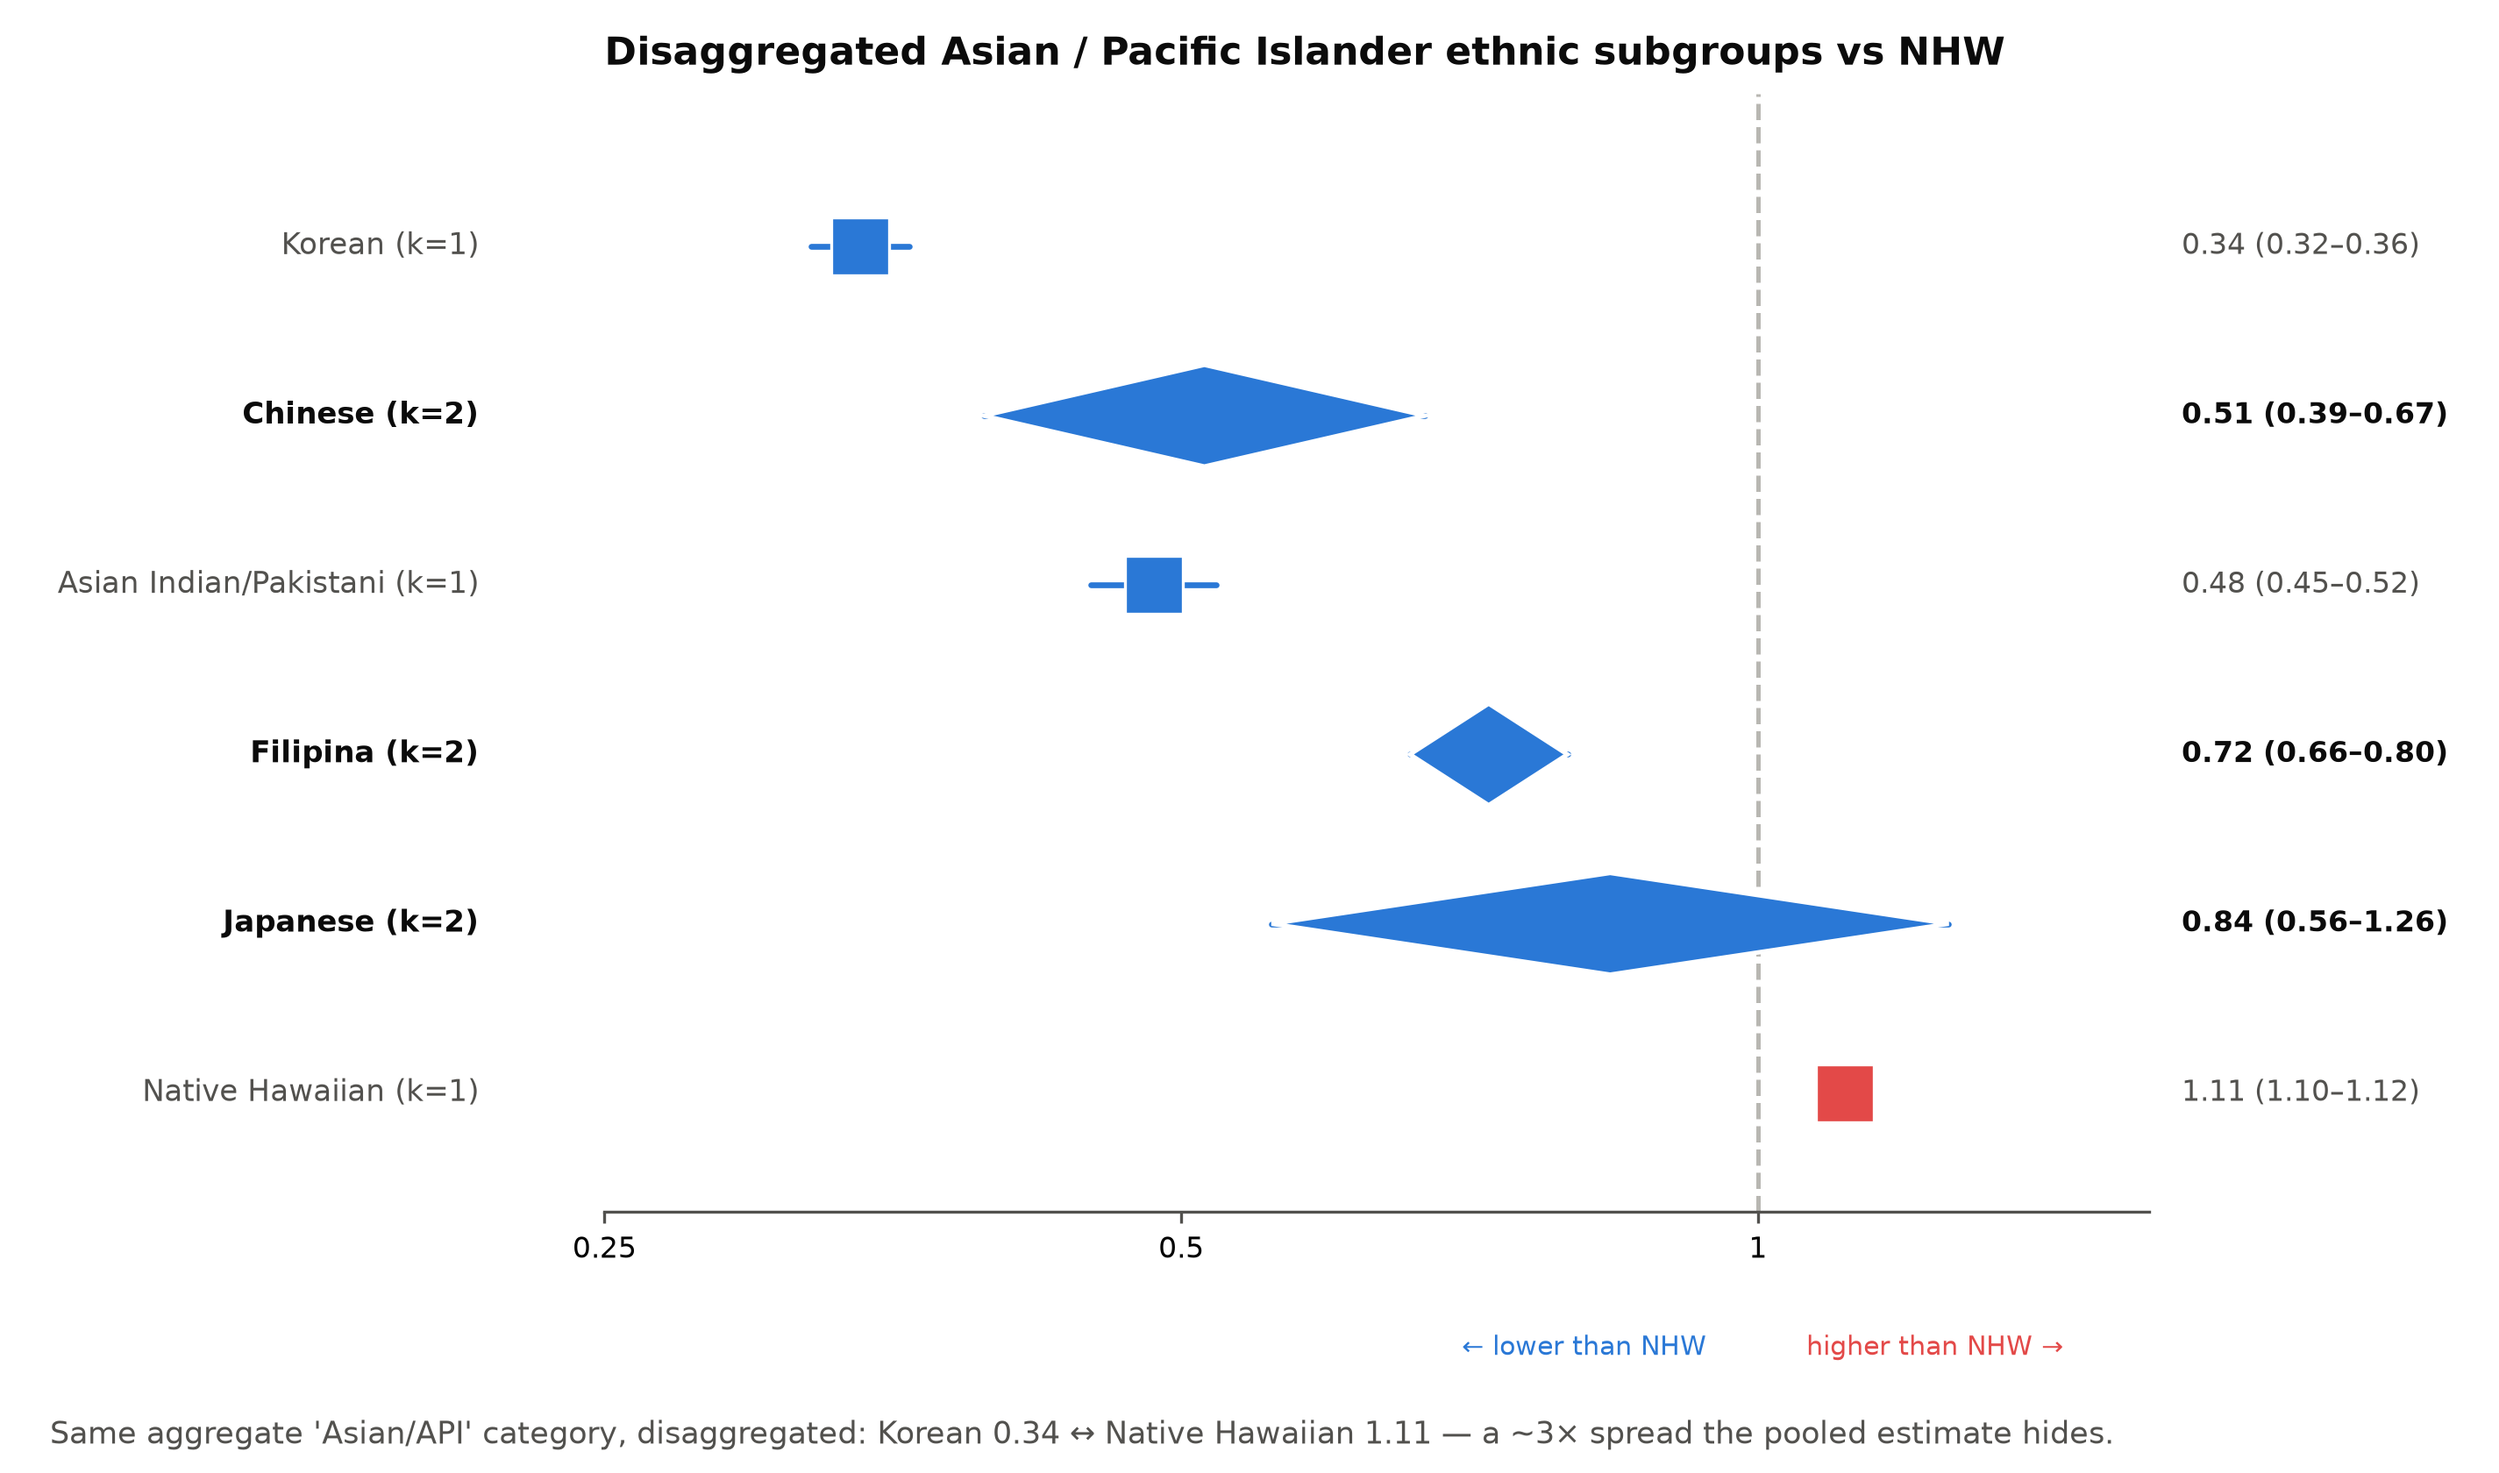
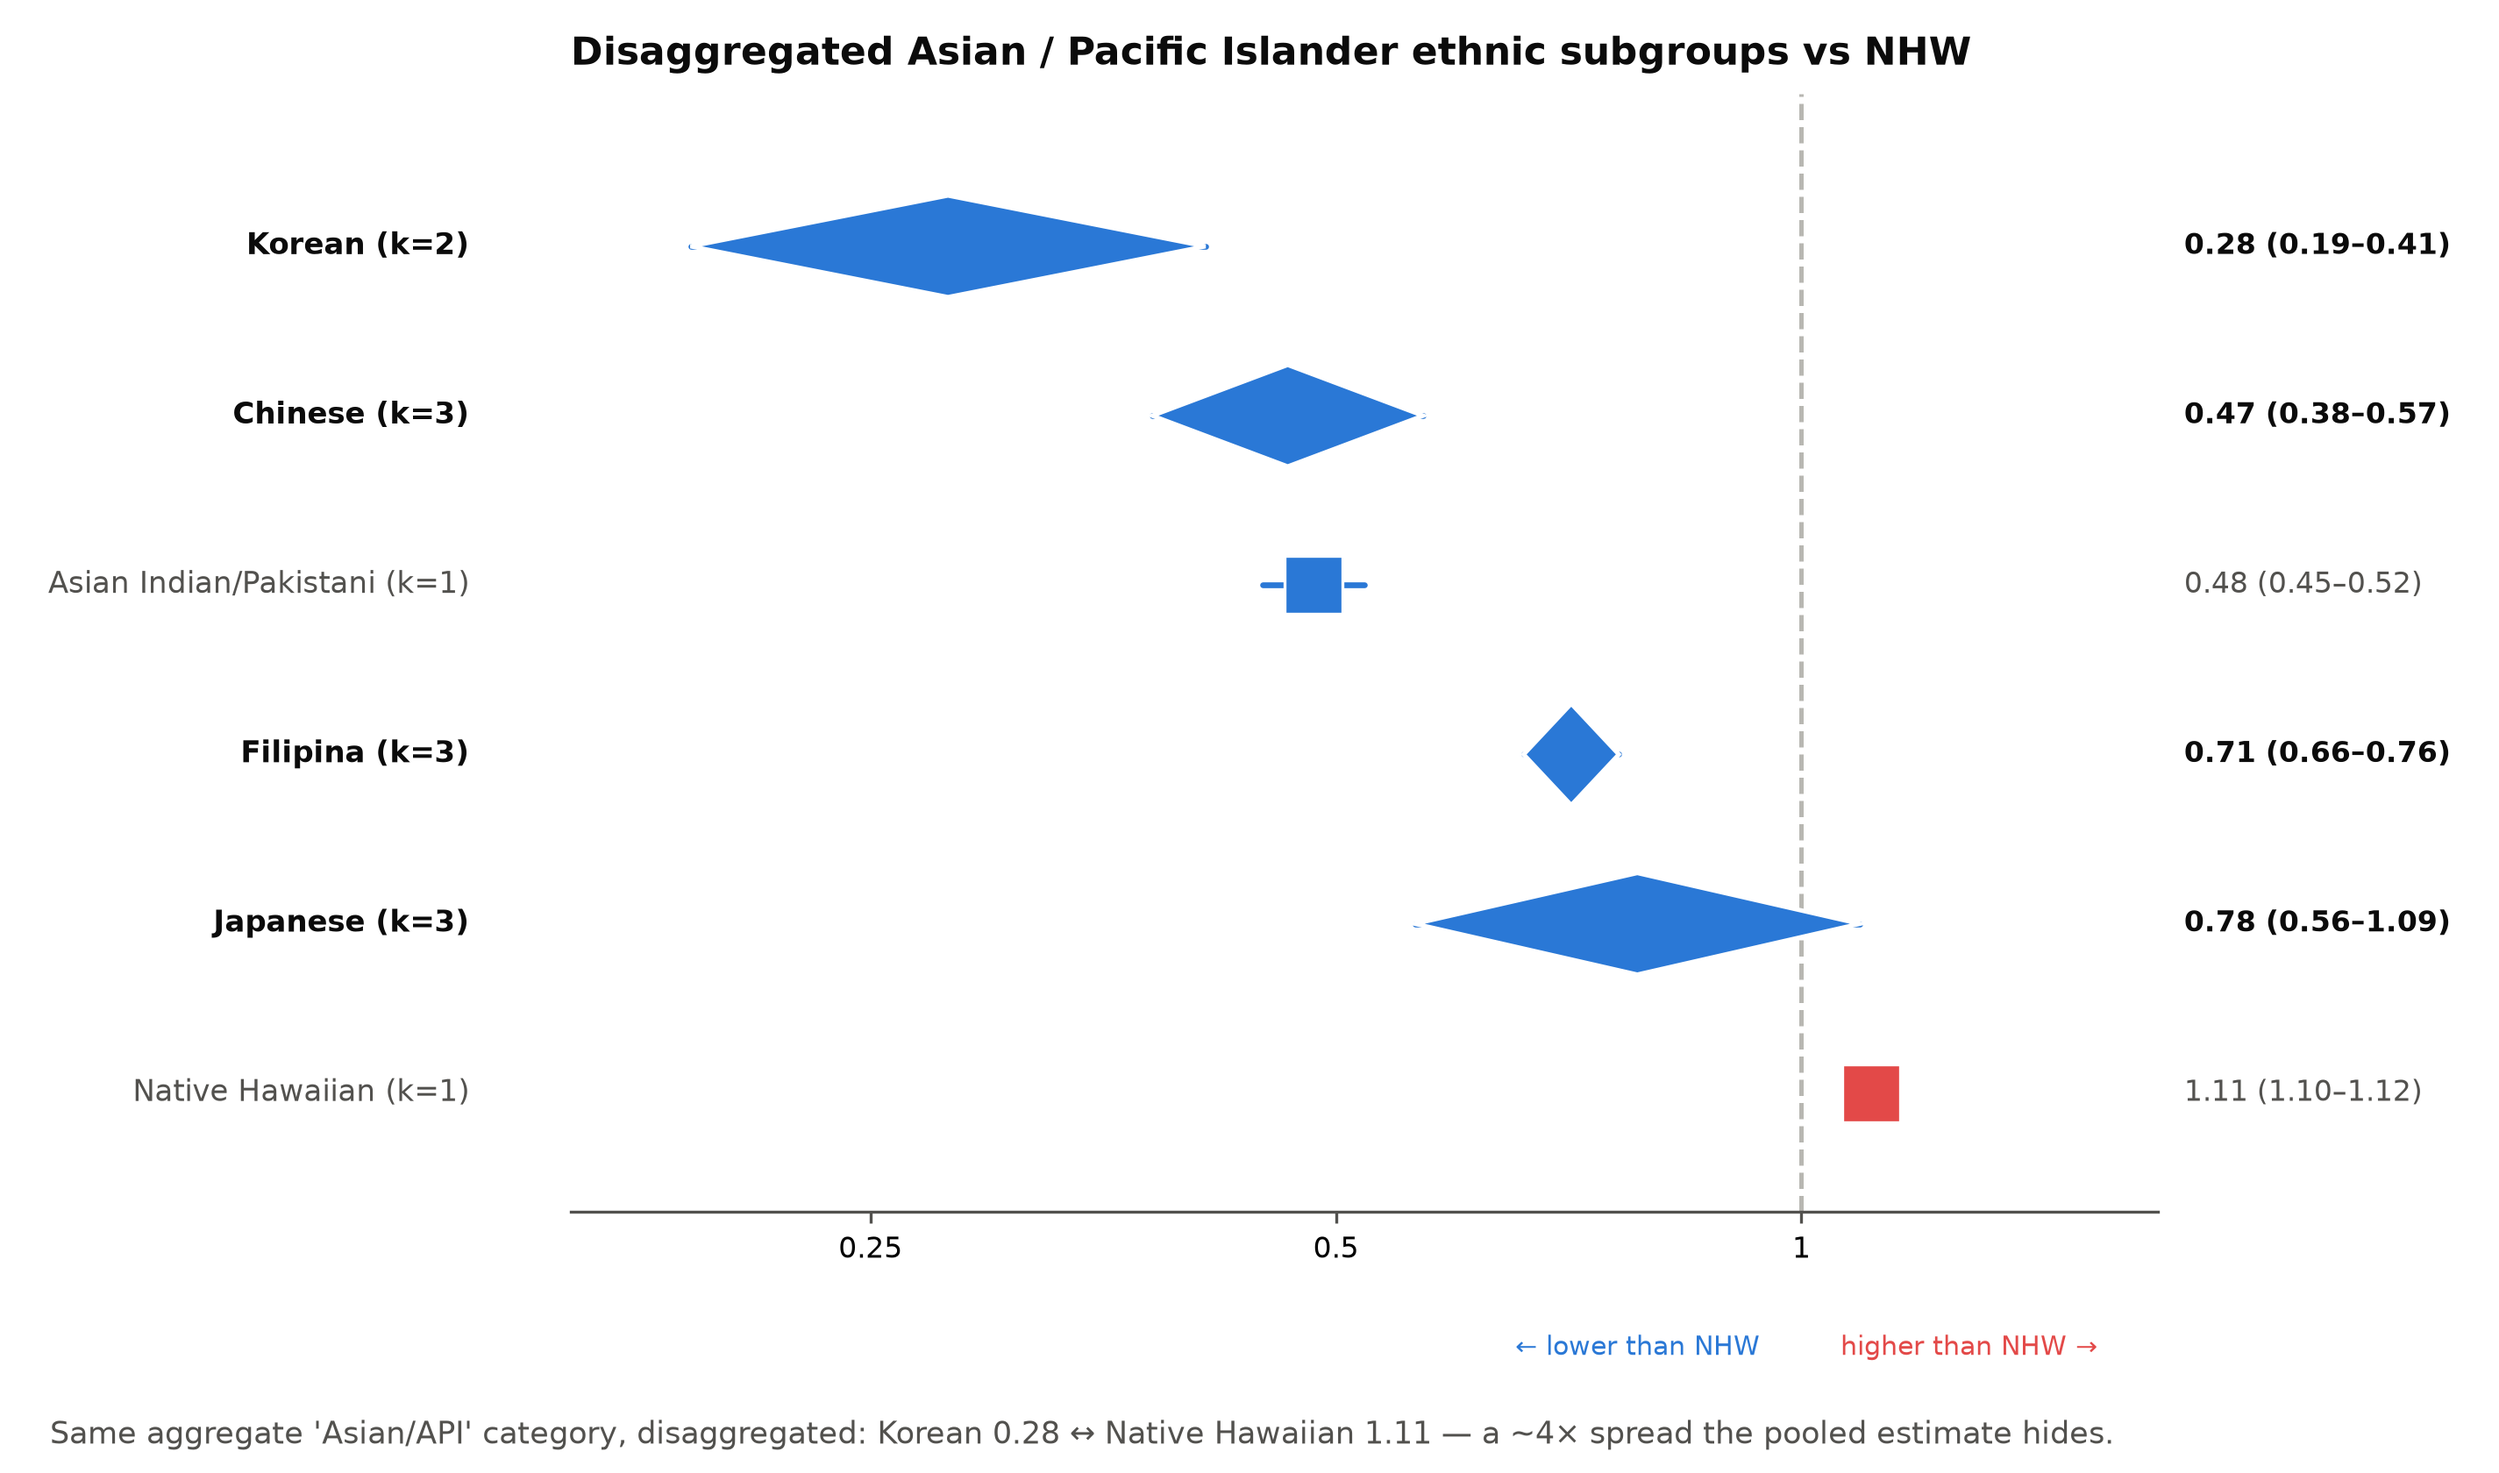
Recover 12115511 (Deapen 2002) from scanned PDF; add Asian subgroup rows
The included study 12115511 had a corrupted .txt (wrong article) AND a
scanned image-only PDF. Rendered the scan (pypdfium2) and read Table I:
annual age-adjusted invasive BC rates + case counts by ethnicity, LA County
1988-1997. Added Chinese/Japanese/Filipina/Korean subgroup rows (10-yr mean
rate vs NHW 124.3; Poisson SE from summed case counts via new helper
se_logrr_from_counts). Korean now k=2; Chinese/Filipina/Japanese k=3.
Main-race rows omitted (LA County overlaps Liu 21351091 -> registry-cluster
sensitivity). Regenerated fig2 (Korean pooled 0.28, ~4x subgroup spread).
STUDIES 83 -> 87. CROSS_CHECK items 92-95.

Claude-Session: https://claude.ai/code/session_01CuLT4FKRBtsU22Vwfjj2qn

diff --git a/meta_agents/run_meta_analysis_breast.py b/meta_agents/run_meta_analysis_breast.py
@@ -84,6 +84,11 @@ def se_from_ci(irr, ci_low, ci_high):
     return (math.log(ci_high) - math.log(ci_low)) / (2 * 1.96)
 
 
+def se_logrr_from_counts(cases_minority, cases_nhw):
+    """SE of log(rate ratio) from case counts (Poisson): sqrt(1/c_m + 1/c_n)."""
+    return math.sqrt(1 / cases_minority + 1 / cases_nhw)
+
+
 def irr_from_rates(r_minority, r_nhw):
     """Convenience: log(IRR) from two rates."""
     return math.log(r_minority / r_nhw)
@@ -322,6 +327,26 @@ STUDIES: List[Study] = [
           math.log(0.68), se_from_ci(0.68, 0.65, 0.70), notes="adj RR vs NHW"),
     Study("Liu2012_21351091", 2012, "LA County SEER", "invasive_incidence", "Korean",
           math.log(0.34), se_from_ci(0.34, 0.32, 0.36), notes="adj RR vs NHW"),
+
+    # ── 12115511 — Deapen et al., Int J Cancer 2002 "Rapidly rising breast
+    #    cancer incidence rates among Asian-American women" (LA County CSP/CCR,
+    #    Table I, age-adj 1970 US std, 1988-1997). Ethnic-subgroup rows only:
+    #    10-year mean age-adj rate vs NHW mean (124.3); SE from summed Poisson
+    #    case counts sqrt(1/C_e + 1/C_w). NHW/Black/Hispanic/API NOT added (LA
+    #    County → overlaps Liu 21351091; addressed in registry-cluster sensitivity).
+    #    Scanned PDF read via image render (txt was corrupted). Adds Korean k=2.
+    Study("Deapen2002_12115511", 2002, "LA County CSP", "invasive_incidence", "Chinese",
+          irr_from_rates(47.25, 124.31), se_logrr_from_counts(683, 31897),
+          minority_rate=47.25, nhw_rate=124.31, notes="LA County 1988-97 mean; overlaps Liu (LA)"),
+    Study("Deapen2002_12115511", 2002, "LA County CSP", "invasive_incidence", "Japanese",
+          irr_from_rates(85.04, 124.31), se_logrr_from_counts(758, 31897),
+          minority_rate=85.04, nhw_rate=124.31, notes="LA County 1988-97 mean; overlaps Liu (LA)"),
+    Study("Deapen2002_12115511", 2002, "LA County CSP", "invasive_incidence", "Filipina",
+          irr_from_rates(84.37, 124.31), se_logrr_from_counts(1177, 31897),
+          minority_rate=84.37, nhw_rate=124.31, notes="LA County 1988-97 mean; overlaps Liu (LA)"),
+    Study("Deapen2002_12115511", 2002, "LA County CSP", "invasive_incidence", "Korean",
+          irr_from_rates(28.58, 124.31), se_logrr_from_counts(271, 31897),
+          minority_rate=28.58, nhw_rate=124.31, notes="LA County 1988-97 mean; overlaps Liu (LA)"),
 
     # ── 36504334 — Hicks/Liu et al., Cancer Causes Control 2023 "Characterizing
     #    breast cancer incidence and trends among AANHPI in Hawai'i" (SEER Hawaii,

diff --git a/meta_agents/make_figures.py b/meta_agents/make_figures.py
@@ -185,10 +185,10 @@ def fig2():
     fig, ax = plt.subplots(figsize=(9.5, 5.6))
     fig.patch.set_facecolor(SURFACE); ax.set_facecolor(SURFACE)
     forest_panel(ax, rows, "Disaggregated Asian / Pacific Islander ethnic subgroups vs NHW",
-                 xlim=(0.25, 1.6))
+                 xlim=(0.16, 1.7))
     fig.text(0.02, 0.02,
-             "Same aggregate 'Asian/API' category, disaggregated: Korean 0.34 ↔ "
-             "Native Hawaiian 1.11 — a ~3× spread the pooled estimate hides.",
+             "Same aggregate 'Asian/API' category, disaggregated: Korean 0.28 ↔ "
+             "Native Hawaiian 1.11 — a ~4× spread the pooled estimate hides.",
              fontsize=8.5, color=INK2, ha="left")
     fig.tight_layout(rect=[0, 0.05, 1, 1])
     fig.savefig("figures/fig2_subgroups_forest.png", dpi=300, facecolor=SURFACE)

diff --git a/meta_agents/EXTRACTION_LOG.md b/meta_agents/EXTRACTION_LOG.md
@@ -274,3 +274,25 @@ Confirmed the pattern, with one important nuance:
 - General rule going forward: **corrupted or poorly-linearized .txt lose table structure**
   (that caused the earlier false exclusions); **PMC-XML-derived .txt keep tables inline**
   and are usable. When in doubt, prefer the PDF via pdfplumber. STUDIES 65 → 67.
+
+---
+
+## 12115511 (Deapen 2002) recovered from scanned PDF — 2026-07-17
+
+The included study 12115511 ("Rapidly rising breast cancer incidence rates among
+Asian-American women", Deapen, Int J Cancer 2002) had a CORRUPTED .txt (a different
+article — a lifestyle/nativity survivorship paper) AND a scanned (image-only) PDF that
+pdfplumber could not extract. Rendered the scan to PNG (pypdfium2 scale=3) and read
+Table I directly. It contains annual age-adjusted invasive BC rates + case counts by
+ethnicity for LA County 1988–1997 — a clean quantitative source after all.
+
+Added Asian subgroup rows (Chinese/Japanese/Filipina/Korean) using 10-year mean rate
+vs NHW mean (124.3) and Poisson SE from summed case counts (se_logrr_from_counts).
+Korean now k=2, Chinese/Filipina/Japanese k=3. Main-race rows (Black/Hispanic/API)
+NOT added — LA County overlaps Liu 21351091 (flagged for registry-cluster sensitivity).
+STUDIES 83 → 87.
+
+Lesson reinforced: a "figure-only / inaccessible" verdict can be wrong when the txt is
+corrupted AND the PDF is a scan — render the scan and look. (Contrast 33392441, checked
+same day: genuinely figure-only — its rates live only in trend-line figures, no numeric
+rate table, and it is SEER data overlapping sources already pooled → kept narrative.)

diff --git a/meta_agents/CROSS_CHECK.md b/meta_agents/CROSS_CHECK.md
@@ -1,4 +1,4 @@
-# Data cross-check — by PMID (descending), items 1–91
+# Data cross-check — by PMID (descending), items 1–95
 
 Open `fulltext/<PMID>.pdf`, go to the stated location, confirm the value, tick `[x]`.
 **rate** = age-adjusted incidence per 100,000; **IRR/RR** = ratio vs NHW.
@@ -163,6 +163,18 @@ Table 1, p.2. Age-adjusted, 2004–2006 (no CI in source).
 
 **Black–White age crossover** = NOW QUANTITATIVE via 15986118 (items 75–80). Corroborated
 narratively by DeSantis 26513636 p.3 (median age at dx Black 58 vs White 62).
+
+## 12115511 (Deapen 2002, Int J Cancer, LA County CSP) — Asian subgroups · items 92–95
+Table I (scanned PDF, read via image render; txt was corrupted). Age-adj (1970 US std)
+invasive BC rate /100k, 1988–1997. Values below = 10-year mean rate; SE from summed
+Poisson case counts. NHW 10-yr mean = **124.3** (total cases 31,897).
+92. [ ] Chinese mean **47.3** (cases 683) → IRR 0.38 (0.35–0.41)
+93. [ ] Japanese mean **85.0** (cases 758) → IRR 0.68 (0.64–0.74)
+94. [ ] Filipina mean **84.4** (cases 1177) → IRR 0.68 (0.64–0.72)
+95. [ ] Korean mean **28.6** (cases 271) → IRR 0.23 (0.20–0.26)
+Spot-check anchor years (Table I): 1988 Chinese 42.5 / Japanese 69.5 / Filipino 81.5 /
+Korean 26.1 / NHW 134.9;  1997 Chinese 50.8 / Japanese 114.3 / Filipino 98.1 / Korean 44.5 / NHW 128.6.
+NB: LA County → overlaps Liu 21351091 (registry-cluster sensitivity in Phase C).
 
 ## 41082230 (Ghana/US, JAMA Netw Open) — ER-status subtypes (Table 2, age-std Segi) · items 90–91
 NB: this study has NO PDF, but its PMC .txt keeps Table 2 as inline text → extractable.
